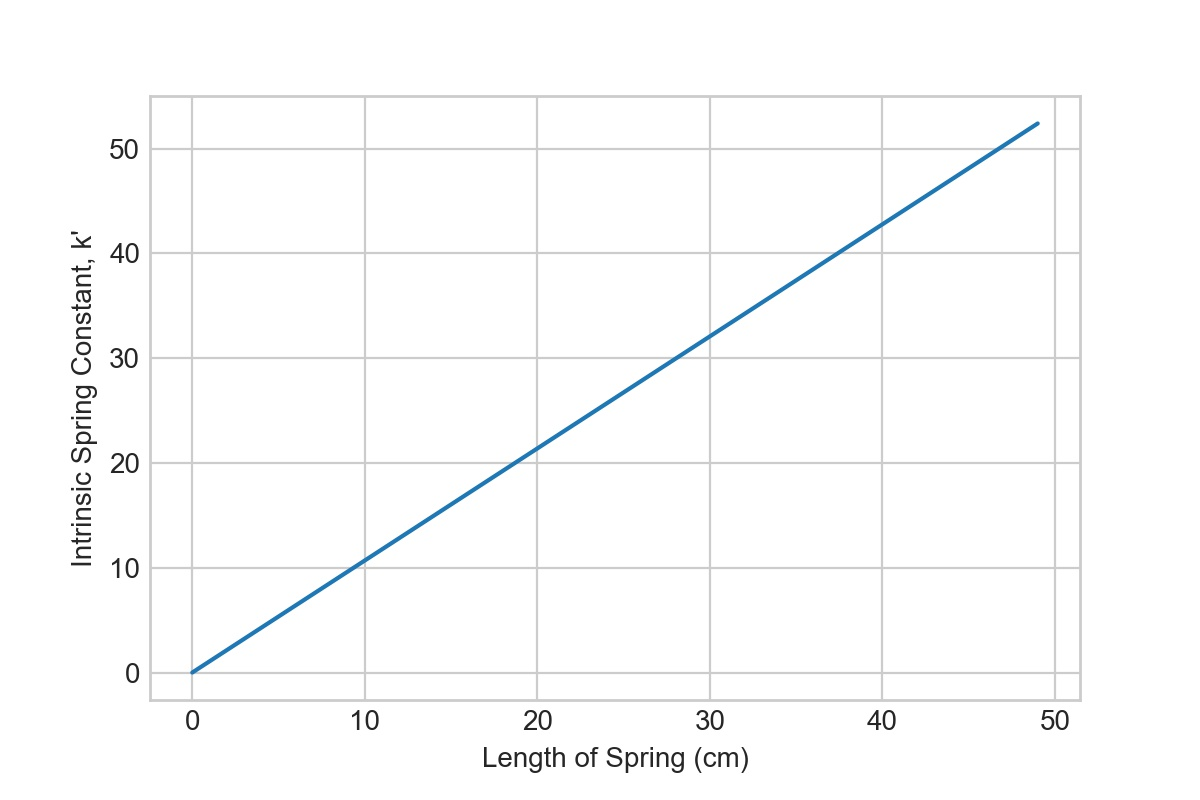
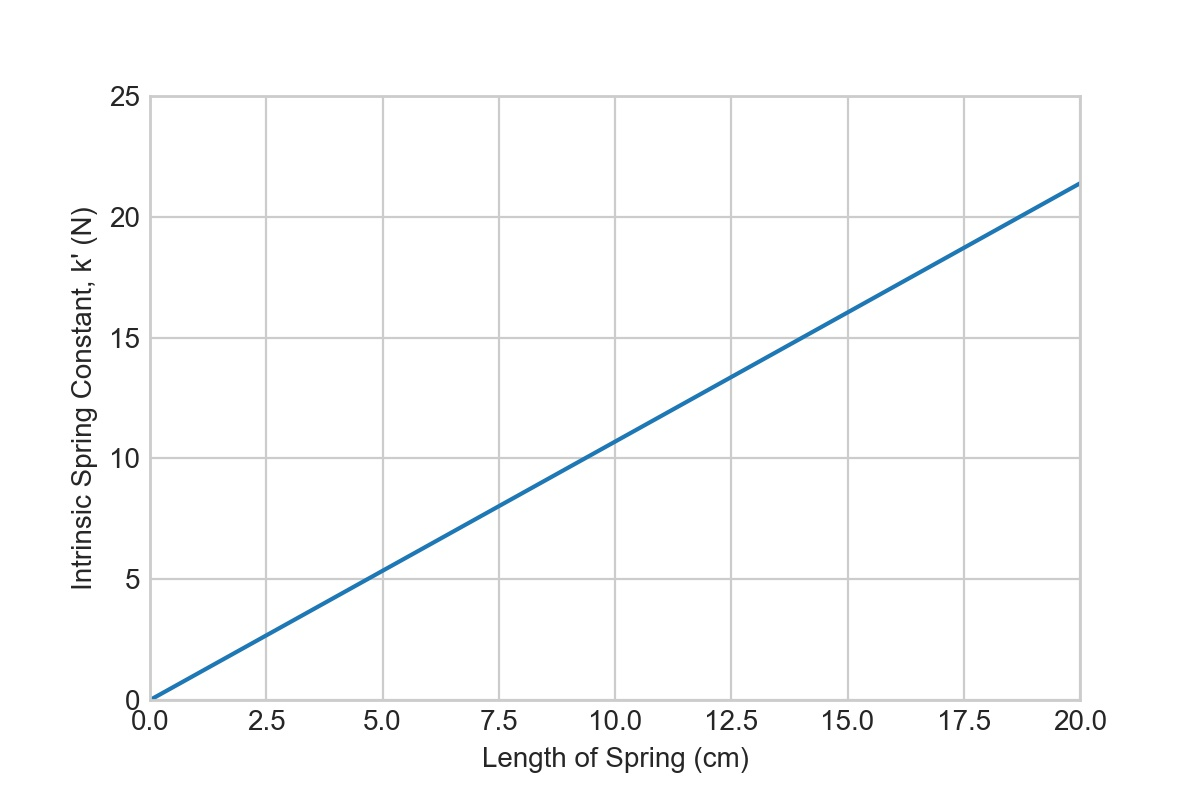
spring constant graph updated

diff --git a/spring_constant.md b/spring_constant.md
@@ -1,0 +1,22 @@
+```python
+%matplotlib inline
+import matplotlib.pyplot as plt
+plt.style.use('seaborn-whitegrid')
+import numpy as np
+
+fig = plt.figure()
+ax = plt.axes()
+
+x = np.linspace(start=0, stop = 20)
+plt.xlim(right=20)
+plt.ylim(top=25)
+plt.plot(2.6197*x, linestyle='-')
+
+plt.xlabel('Length of Spring (cm)')
+plt.ylabel('Intrinsic Spring Constant, k\' (N)')
+plt.legend()
+#plt.show()
+plt.savefig('spring_constant.jpg', dpi=200, facecolor='w', edgecolor='w',orientation='portrait', papertype=None, format=None,transparent=False, bbox_inches=None, pad_inches=0.1,frameon=None, metadata=None)
+
+
+```
